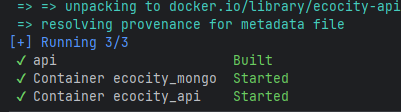
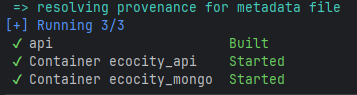
feat: Atualizar README com informações sobre testes e validações

diff --git a/README.md b/README.md
@@ -14,65 +14,68 @@ A aplicação e a base de dados foram preparadas para serem executadas num ambie
 3. Execute o comando de orquestração:
    ```bash
    docker compose up -d --build
-4. O Docker irá baixar as imagens, compilar a API, subir o MongoDB e executar automaticamente o script init-mongo.js para criar as 5 collections (energia, resíduos, indicadores, governança e sensores).
-5. Após os contentores estarem a correr, acesse no navegador: http://localhost:8080/api/status.
+4. Execute os testes para validar o ambiente: 
+   ```bash 
+    dotnet test
 
-## Pipeline CI/CD
-A automação do ciclo de vida da aplicação foi configurada utilizando o GitHub Actions. O pipeline é ativado automaticamente em eventos de push ou pull request para a branch main.
+## Estrutura de Testes
+### 1. Testes de Comportamento (BDD)
+Utilizamos Gherkin para descrever cenários de negócio em linguagem natural. Os arquivos `.feature` estão em `EcoCity.Tests/Features/`.
 
-Etapas do Pipeline:
+**Cenários Principais:**
+- **Energia:** Monitoramento de faixas de consumo.
+- **Resíduos:** Gestão de urgência na coleta por bairro.
+- **Sensores IoT:** Alertas baseados em telemetria em tempo real.
 
-1. Checkout e Setup: Baixa o código fonte e configura o ambiente .NET 8.
-2. Build: Restaura dependências e compila o projeto C# em modo Release para garantir que não há erros de sintaxe. 
-3. Testes Automatizados: Executa o projeto EcoCity.Tests (xUnit) para validar as regras de negócio. Se um teste falhar, o pipeline quebra. 
-4. Deploy Staging: Utilizando o GitHub Environments, após o sucesso do build e dos testes, o pipeline realiza a construção da imagem Docker e o deploy de forma totalmente automática no ambiente de Homologação.
-5. Deploy Produção: Também gerido pelo GitHub Environments, esta etapa possui uma regra de proteção (Required Reviewers). O deploy é pausado e requer aprovação manual humana antes de prosseguir, garantindo segurança na entrega contínua.
+### 2. Testes de Contrato (JSON Schema)
+Garantimos a integridade da API validando cada resposta contra esquemas JSON predefinidos em `EcoCity.Tests/Schemas/`. Isso impede que alterações no código quebrem integrações externas.
 
-## Containerização
-A estratégia adotada para a API utiliza um processo de Multi-stage Build para manter a imagem final o mais leve e segura possível.
-
-- Fase 1 (Build): Utiliza a imagem pesada do SDK do .NET (mcr.microsoft.com/dotnet/sdk:8.0) para compilar o código.
-
-- Fase 2 (Runtime): Utiliza apenas a imagem de execução (mcr.microsoft.com/dotnet/aspnet:8.0), descartando os ficheiros de compilação.
-
-Conteúdo do Dockerfile:
-
-1. Etapa de Build
-FROM [mcr.microsoft.com/dotnet/sdk:8.0](https://mcr.microsoft.com/dotnet/sdk:8.0) AS build
-WORKDIR /src
-COPY ["EcoCity.csproj", "./"]
-RUN dotnet restore "EcoCity.csproj"
-COPY . .
-WORKDIR "/src/"
-RUN dotnet publish "EcoCity.csproj" -c Release -o /app/publish
-
-2. Etapa de Runtime
-FROM [mcr.microsoft.com/dotnet/aspnet:8.0](https://mcr.microsoft.com/dotnet/aspnet:8.0) AS final
-WORKDIR /app
-COPY --from=build /app/publish .
-ENV ASPNETCORE_HTTP_PORTS=8080
-EXPOSE 8080
-ENTRYPOINT ["dotnet", "EcoCity.dll"]
-
-A orquestração com o banco de dados é feita via Docker Compose, criando uma rede interna (ecocity-network) para comunicação segura entre a API e o MongoDB.
+### 3. Cenário de Listagem 
+Para a funcionalidade de consulta de resíduos, implementamos a seguinte validação:
+- **Ação:** O teste executa uma requisição HTTP do tipo **GET** para o endpoint `/api/Residuos`.
+- **Validação de Status e Dados:** Verifica se a API retorna o código **200 OK** e se o corpo da resposta é um **Array JSON**. Internamente, o `ResiduosController` realiza uma busca assíncrona no **MongoDB** para retornar todos os registros.
 
 ## Prints do funcionamento
 
 1. Execução Local e Base de Dados (Docker Compose)
    ![](img/docker.png)
-   ![](img/navegador.png)
 
 2. Execução do Pipeline CI/CD (GitHub Actions)
-   ![](img/build-loading.png)
-   ![](img/staging-load.png)
-   ![](img/request.png)
-   ![](img/request-ok.png)
-   ![](img/producao-loading.png)
-   ![](img/ok.png)
+   ![](img/cicd.png)
 
-3. Deploy em Staging e Produção
-   ![](img/staging-ok.png)
-   ![](img/producao-ok.png)
+3. Configurações MongoDb
+   ![](img/dbconfig.png)
+4. Configurações pipeline
+   ![](img/pipeline.png)
+   
+5. Cenários Ghenkin
+   ![](img/energiafeature.png)
+   ![](img/residuoesfeature.png)
+   ![](img/sensoresiotfeature.png)
+
+6. Steps BDD
+   ![](img/energiabdd.png)
+   ![](img/residuosbdd.png)
+   ![](img/sensoresbdd.png)
+   ![](img/acoesbdd.png)
+   ![](img/acoesbdd2.png)
+
+7. Validação de status code
+   ![](img/testestatus1.png)
+   ![](img/testestatus2.png)
+   ![](img/testesstatus3.png)
+
+
+8. Validação de JSON
+   ![](img/testejson1.png)
+   ![](img/testejson2.png)
+   ![](img/testesjson3.png)
+
+
+9. Testes de contrato utilizando JSON Schema
+   ![](img/schema.png)
+
+
 
 
 
@@ -90,3 +93,5 @@ A orquestração com o banco de dados é feita via Docker Compose, criando uma r
 - IDE: JetBrains Rider
 
 - Controle de Versão: Git e GitHub
+- BDD: Reqnroll (Gherkin)
+- Validação de Contrato: NJsonSchema
